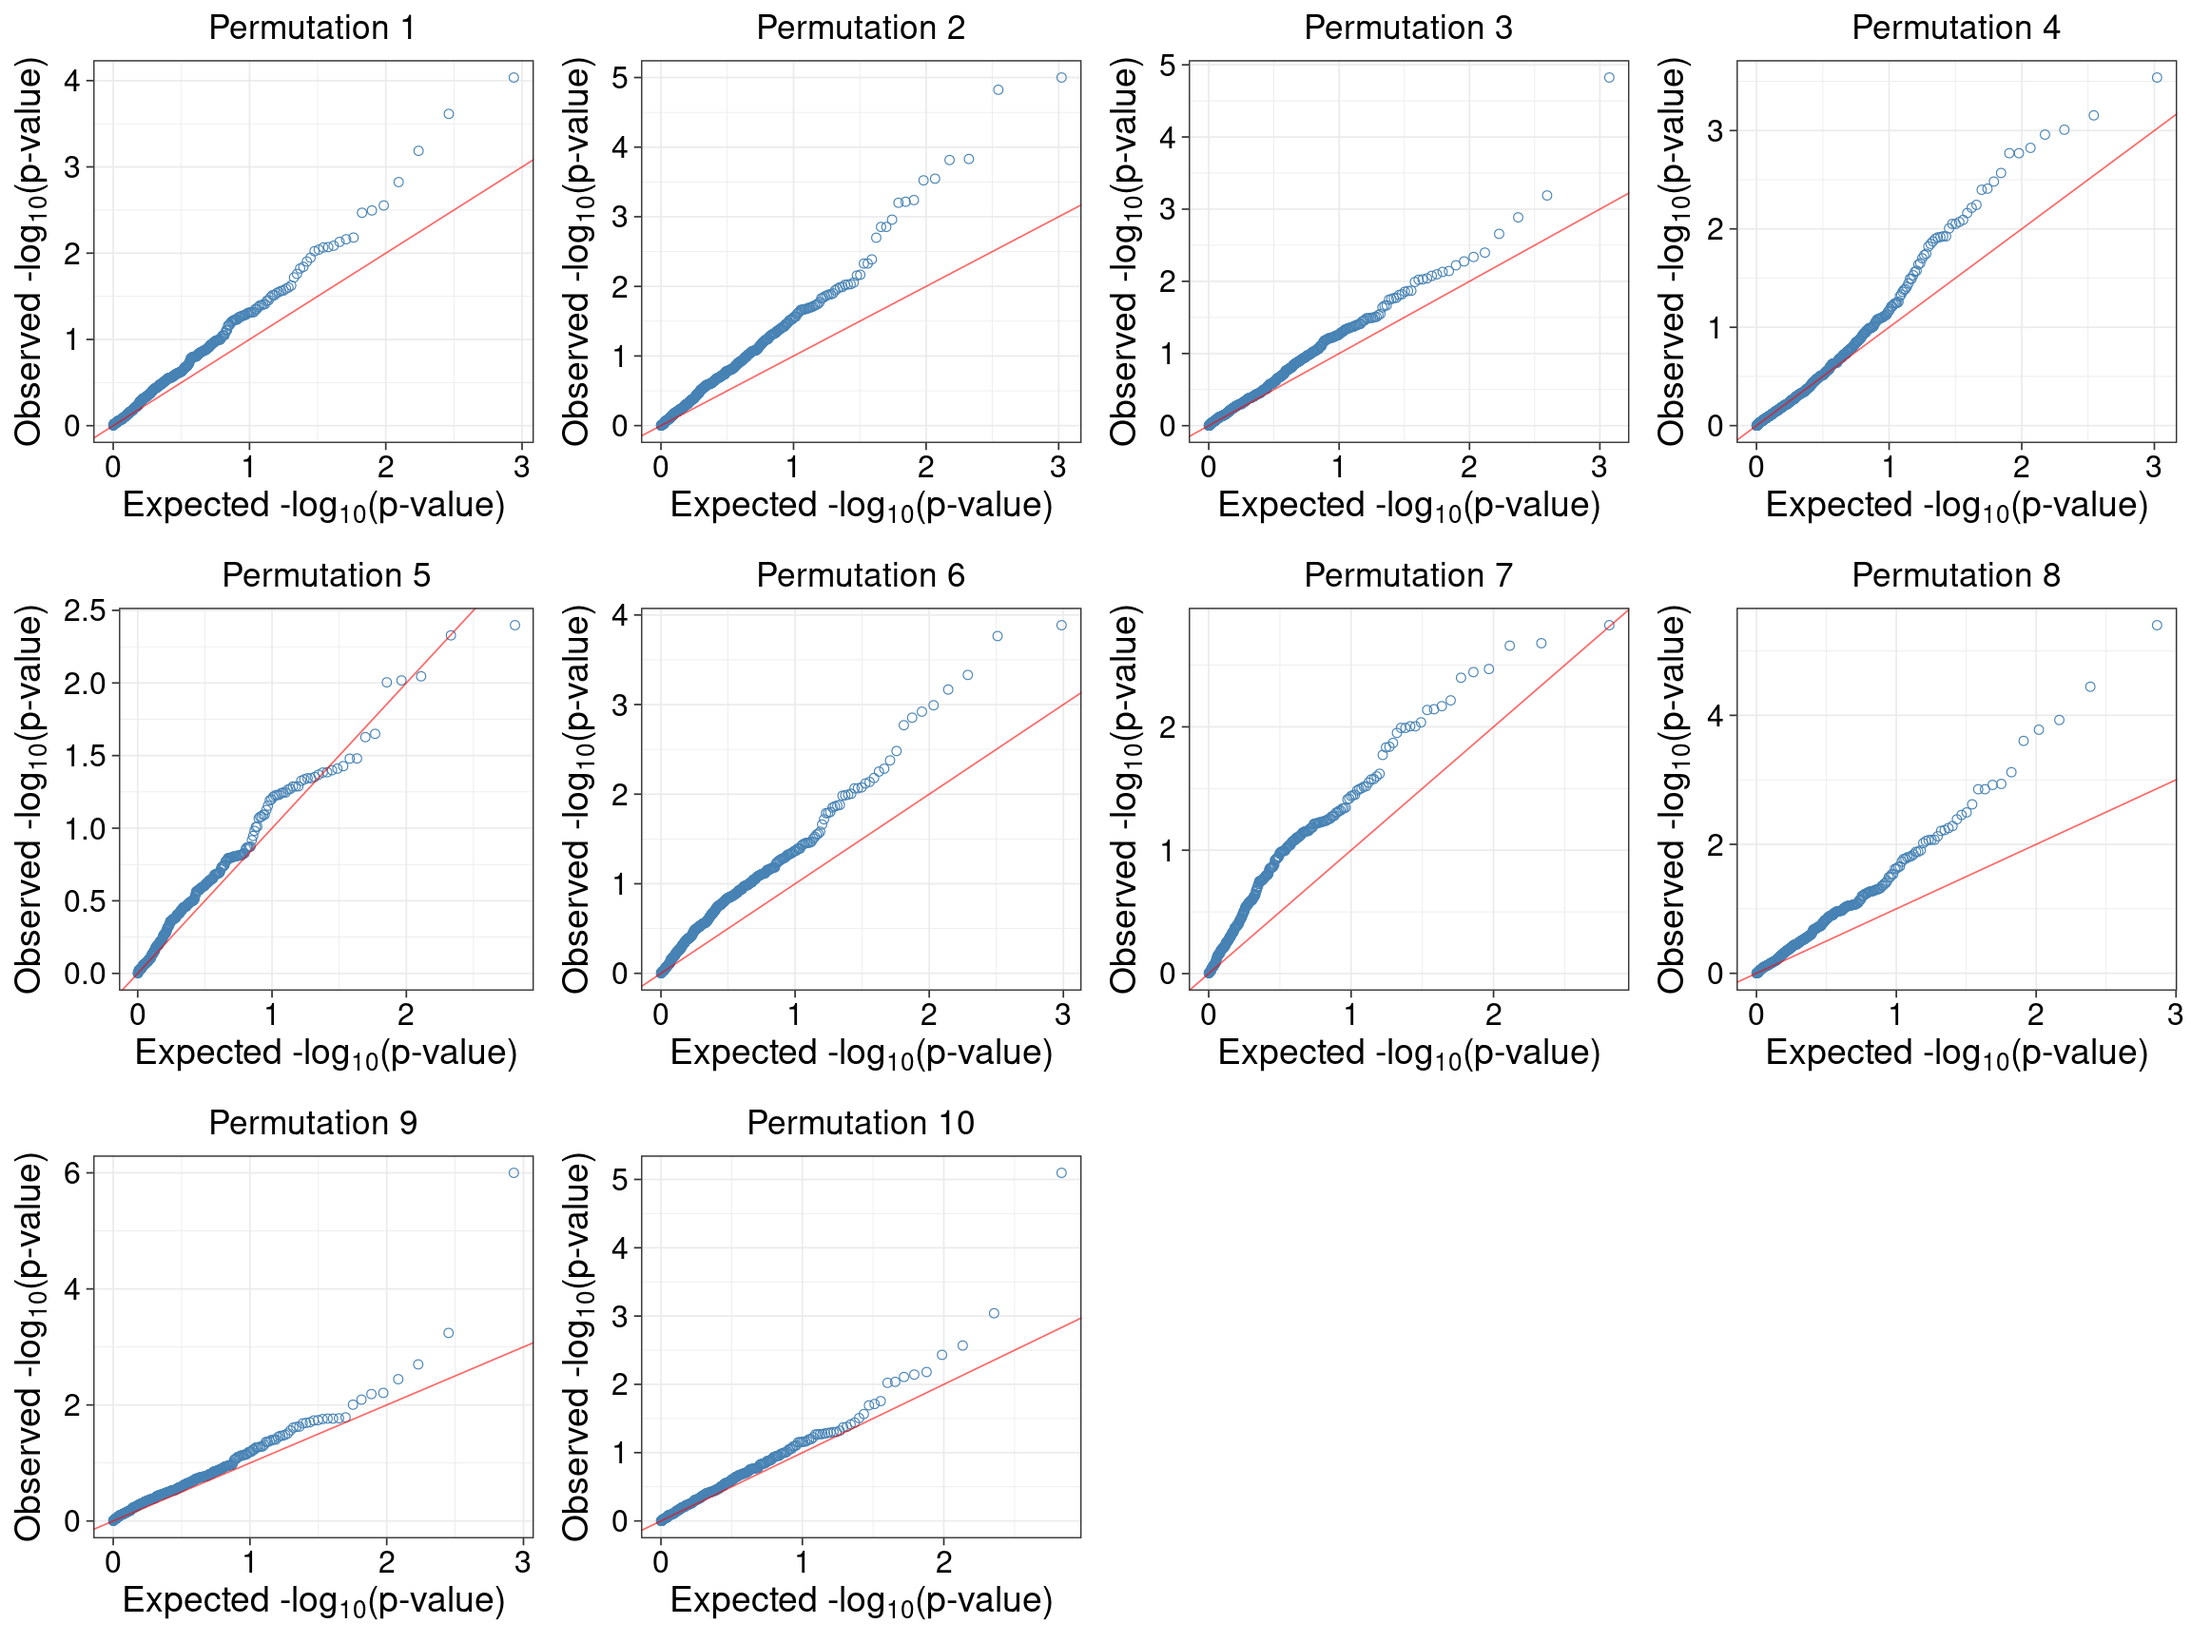
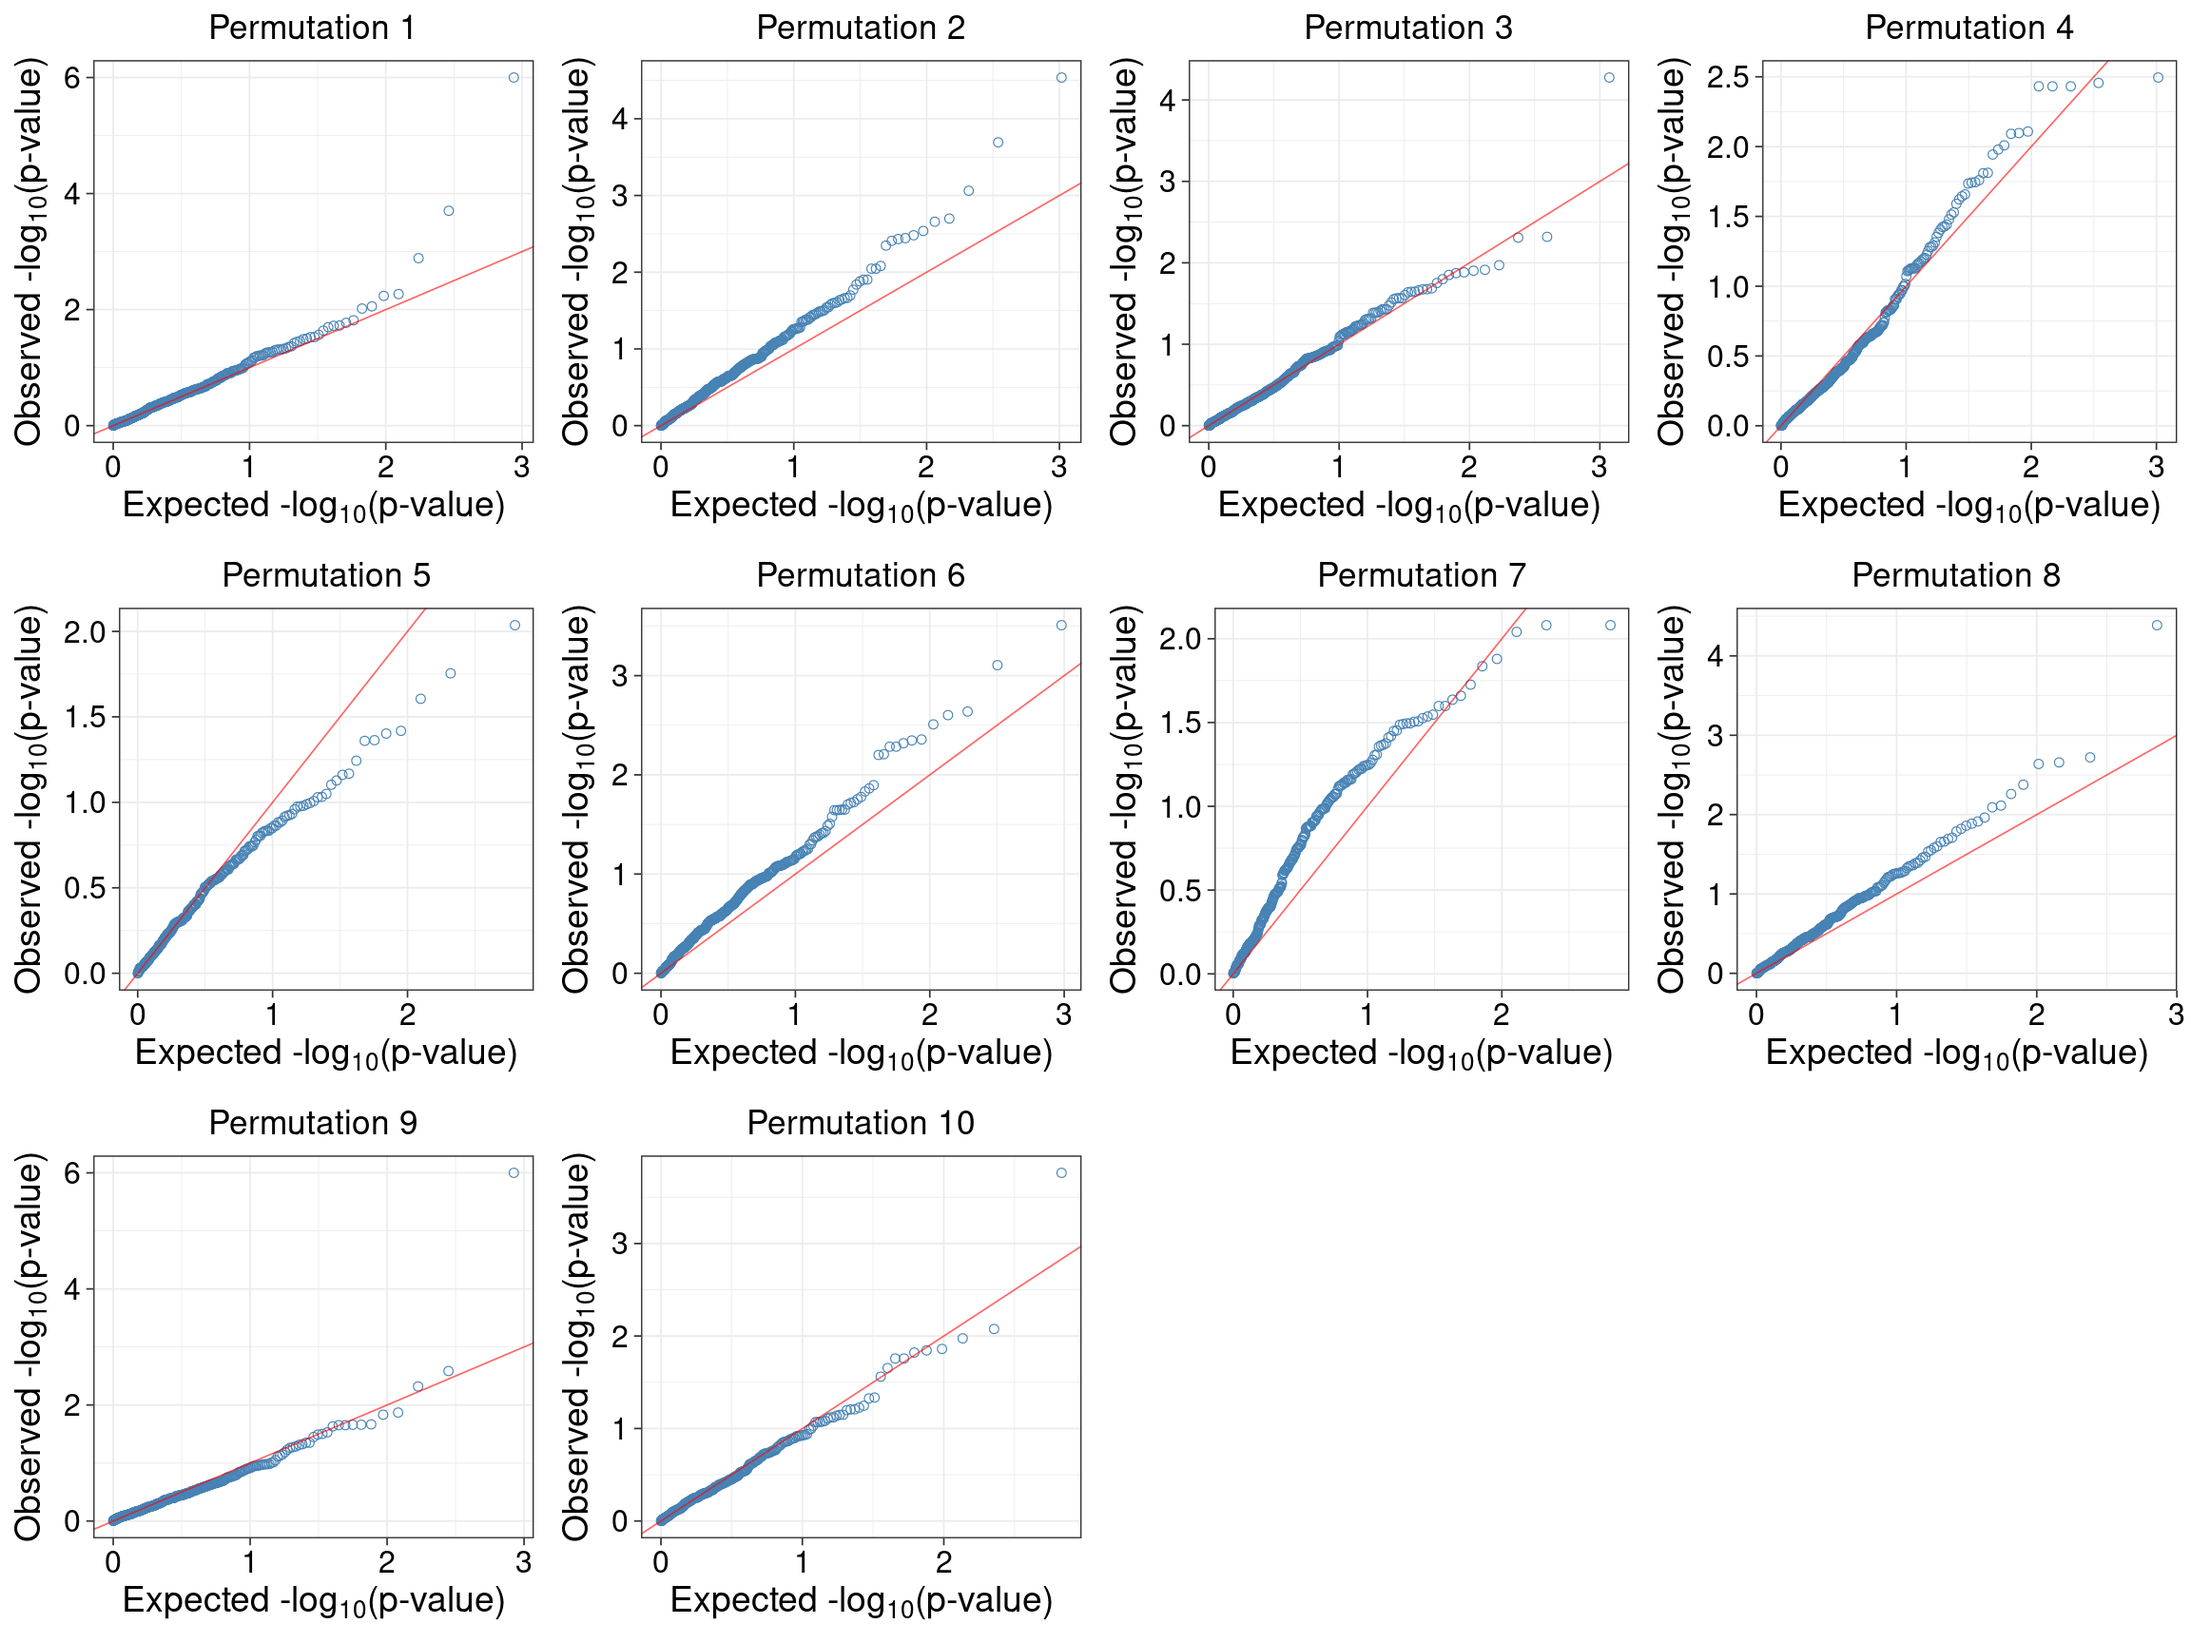
update

diff --git a/docs/revision_num_pair_permut_ECT_binAF.html b/docs/revision_num_pair_permut_ECT_binAF.html
@@ -411,7 +411,7 @@ aria-hidden="true"></span> </a>
 <div class="tab-content">
 <div id="summary" class="tab-pane fade in active">
 <p>
-<strong>Last updated:</strong> 2026-01-12
+<strong>Last updated:</strong> 2026-01-13
 </p>
 <p>
 <strong>Checks:</strong> <span
@@ -545,15 +545,15 @@ project makes it easier to run your code on other machines.</p>
 <div class="panel panel-default">
 <div class="panel-heading">
 <p class="panel-title">
-<a data-toggle="collapse" data-parent="#workflowr-checks" href="#strongRepositoryversionstrongahrefhttpsgithubcomxsun1229factoranalysisnewtree72701f7b3fd607e05853546a6989b6f6fc6f7b98targetblank72701f7a">
+<a data-toggle="collapse" data-parent="#workflowr-checks" href="#strongRepositoryversionstrongahrefhttpsgithubcomxsun1229factoranalysisnewtreed1149cc0df95f5a7c7abd4c60e5add4bbe14cdfetargetblankd1149cca">
 <span class="glyphicon glyphicon-ok text-success"
 aria-hidden="true"></span> <strong>Repository version:</strong>
-<a href="https://github.com/xsun1229/factor_analysis_new/tree/72701f7b3fd607e05853546a6989b6f6fc6f7b98" target="_blank">72701f7</a>
+<a href="https://github.com/xsun1229/factor_analysis_new/tree/d1149cc0df95f5a7c7abd4c60e5add4bbe14cdfe" target="_blank">d1149cc</a>
 </a>
 </p>
 </div>
 <div
[2 lines of base64/hex data omitted]
 class="panel-collapse collapse">
 <div class="panel-body">
 <p>
@@ -563,7 +563,7 @@ reproducibility.
 </p>
 <p>
 The results in this page were generated with repository version
-<a href="https://github.com/xsun1229/factor_analysis_new/tree/72701f7b3fd607e05853546a6989b6f6fc6f7b98" target="_blank">72701f7</a>.
+<a href="https://github.com/xsun1229/factor_analysis_new/tree/d1149cc0df95f5a7c7abd4c60e5add4bbe14cdfe" target="_blank">d1149cc</a>.
 See the <em>Past versions</em> tab to see a history of the changes made
 to the R Markdown and HTML files.
 </p>
@@ -577,12 +577,7 @@ depends on. Below is the status of the Git repository when the results
 were generated:
 </p>
 <pre><code>
-Untracked files:
-    Untracked:  analysis/revision_check_nobin_toppairs.Rmd
-
 Unstaged changes:
-    Modified:   analysis/revision.Rmd
-    Modified:   analysis/revision_num_pair_permut_ECT.Rmd
     Modified:   analysis/revision_num_pair_permut_ECT_binAF.Rmd
 
 </code></pre>
@@ -630,6 +625,40 @@ Message
 </tr>
 </thead>
 <tbody>
+<tr>
+<td>
+Rmd
+</td>
+<td>
+<a href="https://github.com/xsun1229/factor_analysis_new/blob/0efac1c3da287cc942f3177c0320539c89fa8efc/analysis/revision_num_pair_permut_ECT_binAF.Rmd" target="_blank">0efac1c</a>
+</td>
+<td>
+XSun
+</td>
+<td>
+2026-01-13
+</td>
+<td>
+update
+</td>
+</tr>
+<tr>
+<td>
+html
+</td>
+<td>
+<a href="https://rawcdn.githack.com/xsun1229/factor_analysis_new/0efac1c3da287cc942f3177c0320539c89fa8efc/docs/revision_num_pair_permut_ECT_binAF.html" target="_blank">0efac1c</a>
+</td>
+<td>
+XSun
+</td>
+<td>
+2026-01-13
+</td>
+<td>
+update
+</td>
+</tr>
 <tr>
 <td>
 Rmd
@@ -783,6 +812,17 @@ Date
 <tbody>
 <tr>
 <td>
+<a href="https://github.com/xsun1229/factor_analysis_new/blob/0efac1c3da287cc942f3177c0320539c89fa8efc/docs/figure/revision_num_pair_permut_ECT_binAF.Rmd/unnamed-chunk-3-1.png" target="_blank">0efac1c</a>
+</td>
+<td>
+XSun
+</td>
+<td>
+2026-01-13
+</td>
+</tr>
+<tr>
+<td>
 <a href="https://github.com/xsun1229/factor_analysis_new/blob/72701f7b3fd607e05853546a6989b6f6fc6f7b98/docs/figure/revision_num_pair_permut_ECT_binAF.Rmd/unnamed-chunk-3-1.png" target="_blank">72701f7</a>
 </td>
 <td>
@@ -802,7 +842,7 @@ for (perm in c(1:10)){
   df_all_celltype_perm &lt;- c()
   for(celltype in celltypes){
     
-    df &lt;- readRDS(paste0(&quot;/project/xinhe/xsun/pathway_factor/analysis/1.ECT_CEDAR_permu/ECT_summary/perm&quot;, perm, &quot;/&quot;, celltype,&quot;_ECT_summary_poolalltraits_selected.RDS&quot;))
+    df &lt;- readRDS(paste0(&quot;/project/xinhe/xsun/pathway_factor/analysis/1.ECT_CEDAR_permu/ECT_summary_bin/perm&quot;, perm, &quot;/&quot;, celltype,&quot;_ECT_summary_poolalltraits_selected.RDS&quot;))
     df &lt;- df[df$trait_id %in% traits_EUR,]
     
     df_all_celltype_perm &lt;- rbind(df_all_celltype_perm, df)
@@ -838,6 +878,17 @@ Date
 </tr>
 </thead>
 <tbody>
+<tr>
+<td>
+<a href="https://github.com/xsun1229/factor_analysis_new/blob/0efac1c3da287cc942f3177c0320539c89fa8efc/docs/figure/revision_num_pair_permut_ECT_binAF.Rmd/unnamed-chunk-4-1.png" target="_blank">0efac1c</a>
+</td>
+<td>
+XSun
+</td>
+<td>
+2026-01-13
+</td>
+</tr>
 <tr>
 <td>
 <a href="https://github.com/xsun1229/factor_analysis_new/blob/72701f7b3fd607e05853546a6989b6f6fc6f7b98/docs/figure/revision_num_pair_permut_ECT_binAF.Rmd/unnamed-chunk-4-1.png" target="_blank">72701f7</a>
@@ -1034,6 +1085,17 @@ Date
 <tbody>
 <tr>
 <td>
+<a href="https://github.com/xsun1229/factor_analysis_new/blob/0efac1c3da287cc942f3177c0320539c89fa8efc/docs/figure/revision_num_pair_permut_ECT_binAF.Rmd/unnamed-chunk-5-1.png" target="_blank">0efac1c</a>
+</td>
+<td>
+XSun
+</td>
+<td>
+2026-01-13
+</td>
+</tr>
+<tr>
+<td>
 <a href="https://github.com/xsun1229/factor_analysis_new/blob/72701f7b3fd607e05853546a6989b6f6fc6f7b98/docs/figure/revision_num_pair_permut_ECT_binAF.Rmd/unnamed-chunk-5-1.png" target="_blank">72701f7</a>
 </td>
 <td>
@@ -1220,6 +1282,17 @@ Date
 <tbody>
 <tr>
 <td>
+<a href="https://github.com/xsun1229/factor_analysis_new/blob/0efac1c3da287cc942f3177c0320539c89fa8efc/docs/figure/revision_num_pair_permut_ECT_binAF.Rmd/unnamed-chunk-6-1.png" target="_blank">0efac1c</a>
+</td>
+<td>
+XSun
+</td>
+<td>
+2026-01-13
+</td>
+</tr>
+<tr>
+<td>
 <a href="https://github.com/xsun1229/factor_analysis_new/blob/72701f7b3fd607e05853546a6989b6f6fc6f7b98/docs/figure/revision_num_pair_permut_ECT_binAF.Rmd/unnamed-chunk-6-1.png" target="_blank">72701f7</a>
 </td>
 <td>
@@ -1370,6 +1443,43 @@ p &lt;- ggplot(df_long, aes(x = Permutation, y = value)) +
   theme_bw(base_size = 12)
 p</code></pre>
 <p><img src="figure/revision_num_pair_permut_ECT_binAF.Rmd/unnamed-chunk-7-1.png" width="672" style="display: block; margin: auto;" /></p>
+<p>
+<button type="button" class="btn btn-default btn-xs btn-workflowr btn-workflowr-fig" data-toggle="collapse" data-target="#fig-unnamed-chunk-7-1">
+Past versions of unnamed-chunk-7-1.png
+</button>
+</p>
+<div id="fig-unnamed-chunk-7-1" class="collapse">
+<div class="table-responsive">
+<table class="table table-condensed table-hover">
+<thead>
+<tr>
+<th>
+Version
+</th>
+<th>
+Author
+</th>
+<th>
+Date
+</th>
+</tr>
+</thead>
+<tbody>
+<tr>
+<td>
+<a href="https://github.com/xsun1229/factor_analysis_new/blob/0efac1c3da287cc942f3177c0320539c89fa8efc/docs/figure/revision_num_pair_permut_ECT_binAF.Rmd/unnamed-chunk-7-1.png" target="_blank">0efac1c</a>
+</td>
+<td>
+XSun
+</td>
+<td>
+2026-01-13
+</td>
+</tr>
+</tbody>
+</table>
+</div>
+</div>
 <pre class="r"><code>DT::datatable(df,caption = htmltools::tags$caption( style = &#39;caption-side: left; text-align: left; color:black;  font-size:150% ;&#39;,paste0(&quot;Number of pairs passing ECT p &lt; &quot;, cutoff)),options = list(pageLength = 10) )</code></pre>
 <div id="htmlwidget-66aaeb19fe992dfb51c2" style="width:100%;height:auto;" class="datatables html-widget"></div>
 <script type="application/json" data-for="htmlwidget-66aaeb19fe992dfb51c2">{"x":{"filter":"none","vertical":false,"caption":"<caption style=\"caption-side: left; text-align: left; color:black;  font-size:150% ;\">Number of pairs passing ECT p &lt; 0.001<\/caption>","data":[["1","2","3","4","5","6","7","8","9","10"],[1,2,3,4,5,6,7,8,9,10],[2,3,1,0,0,2,0,1,1,1]],"container":"<table class=\"display\">\n  <thead>\n    <tr>\n      <th> <\/th>\n      <th>Permutation<\/th>\n      <th>num_passcutoff<\/th>\n    <\/tr>\n  <\/thead>\n<\/table>","options":{"pageLength":10,"columnDefs":[{"className":"dt-right","targets":[1,2]},{"orderable":false,"targets":0}],"order":[],"autoWidth":false,"orderClasses":false}},"evals":[],"jsHooks":[]}</script>
@@ -1508,6 +1618,43 @@ p &lt;- ggplot(df_long, aes(x = Permutation, y = value)) +
 
 p</code></pre>
 <p><img src="figure/revision_num_pair_permut_ECT_binAF.Rmd/unnamed-chunk-8-1.png" width="672" style="display: block; margin: auto;" /></p>
+<p>
+<button type="button" class="btn btn-default btn-xs btn-workflowr btn-workflowr-fig" data-toggle="collapse" data-target="#fig-unnamed-chunk-8-1">
+Past versions of unnamed-chunk-8-1.png
+</button>
+</p>
+<div id="fig-unnamed-chunk-8-1" class="collapse">
+<div class="table-responsive">
+<table class="table table-condensed table-hover">
+<thead>
+<tr>
+<th>
+Version
+</th>
+<th>
+Author
+</th>
+<th>
+Date
+</th>
+</tr>
+</thead>
+<tbody>
+<tr>
+<td>
+<a href="https://github.com/xsun1229/factor_analysis_new/blob/0efac1c3da287cc942f3177c0320539c89fa8efc/docs/figure/revision_num_pair_permut_ECT_binAF.Rmd/unnamed-chunk-8-1.png" target="_blank">0efac1c</a>
+</td>
+<td>
+XSun
+</td>
+<td>
+2026-01-13
+</td>
+</tr>
+</tbody>
+</table>
+</div>
+</div>
 <pre class="r"><code>DT::datatable(df,caption = htmltools::tags$caption( style = &#39;caption-side: left; text-align: left; color:black;  font-size:150% ;&#39;,paste0(&quot;Number of pairs passing ECT p &lt; &quot;, cutoff)),options = list(pageLength = 10) )</code></pre>
 <div id="htmlwidget-1814506231684700bf53" style="width:100%;height:auto;" class="datatables html-widget"></div>
 <script type="application/json" data-for="htmlwidget-1814506231684700bf53">{"x":{"filter":"none","vertical":false,"caption":"<caption style=\"caption-side: left; text-align: left; color:black;  font-size:150% ;\">Number of pairs passing ECT p &lt; 1e-04<\/caption>","data":[["1","2","3","4","5","6","7","8","9","10"],[1,2,3,4,5,6,7,8,9,10],[1,1,1,0,0,0,0,1,1,0]],"container":"<table class=\"display\">\n  <thead>\n    <tr>\n      <th> <\/th>\n      <th>Permutation<\/th>\n      <th>num_passcutoff<\/th>\n    <\/tr>\n  <\/thead>\n<\/table>","options":{"pageLength":10,"columnDefs":[{"className":"dt-right","targets":[1,2]},{"orderable":false,"targets":0}],"order":[],"autoWidth":false,"orderClasses":false}},"evals":[],"jsHooks":[]}</script>
@@ -1646,6 +1793,43 @@ p &lt;- ggplot(df_long, aes(x = Permutation, y = value)) +
 
 p</code></pre>
 <p><img src="figure/revision_num_pair_permut_ECT_binAF.Rmd/unnamed-chunk-9-1.png" width="672" style="display: block; margin: auto;" /></p>
+<p>
+<button type="button" class="btn btn-default btn-xs btn-workflowr btn-workflowr-fig" data-toggle="collapse" data-target="#fig-unnamed-chunk-9-1">
+Past versions of unnamed-chunk-9-1.png
+</button>
+</p>
+<div id="fig-unnamed-chunk-9-1" class="collapse">
+<div class="table-responsive">
+<table class="table table-condensed table-hover">
+<thead>
+<tr>
+<th>
+Version
+</th>
+<th>
+Author
+</th>
+<th>
+Date
+</th>
+</tr>
+</thead>
+<tbody>
+<tr>
+<td>
+<a href="https://github.com/xsun1229/factor_analysis_new/blob/0efac1c3da287cc942f3177c0320539c89fa8efc/docs/figure/revision_num_pair_permut_ECT_binAF.Rmd/unnamed-chunk-9-1.png" target="_blank">0efac1c</a>
+</td>
+<td>
+XSun
+</td>
+<td>
+2026-01-13
+</td>
+</tr>
+</tbody>
+</table>
+</div>
+</div>
 <pre class="r"><code>DT::datatable(df,caption = htmltools::tags$caption( style = &#39;caption-side: left; text-align: left; color:black;  font-size:150% ;&#39;,paste0(&quot;Number of pairs passing ECT p &lt; &quot;, cutoff)),options = list(pageLength = 10) )</code></pre>
 <div id="htmlwidget-43c5071fe8a890b96ecd" style="width:100%;height:auto;" class="datatables html-widget"></div>
 <script type="application/json" data-for="htmlwidget-43c5071fe8a890b96ecd">{"x":{"filter":"none","vertical":false,"caption":"<caption style=\"caption-side: left; text-align: left; color:black;  font-size:150% ;\">Number of pairs passing ECT p &lt; 1e-05<\/caption>","data":[["1","2","3","4","5","6","7","8","9","10"],[1,2,3,4,5,6,7,8,9,10],[1,0,0,0,0,0,0,0,1,0]],"container":"<table class=\"display\">\n  <thead>\n    <tr>\n      <th> <\/th>\n      <th>Permutation<\/th>\n      <th>num_passcutoff<\/th>\n    <\/tr>\n  <\/thead>\n<\/table>","options":{"pageLength":10,"columnDefs":[{"className":"dt-right","targets":[1,2]},{"orderable":false,"targets":0}],"order":[],"autoWidth":false,"orderClasses":false}},"evals":[],"jsHooks":[]}</script>
